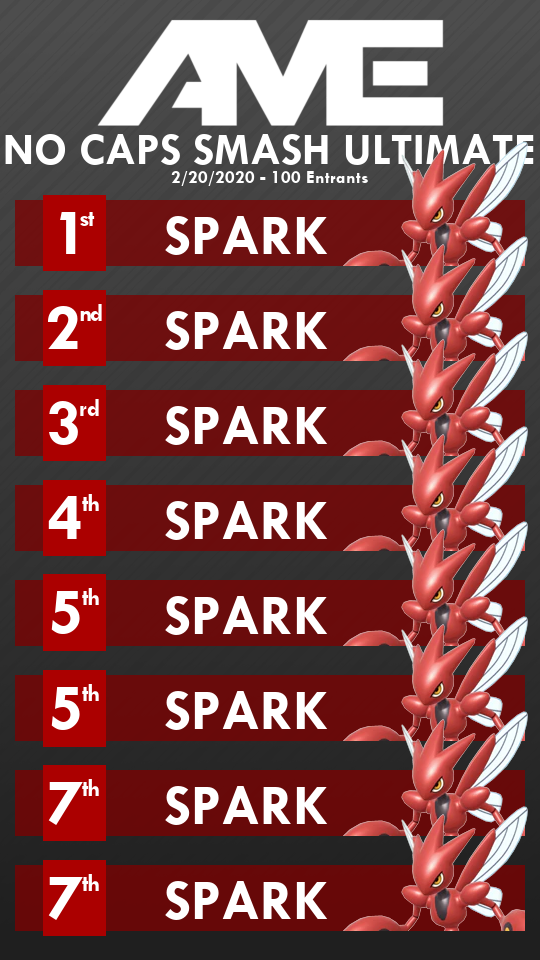
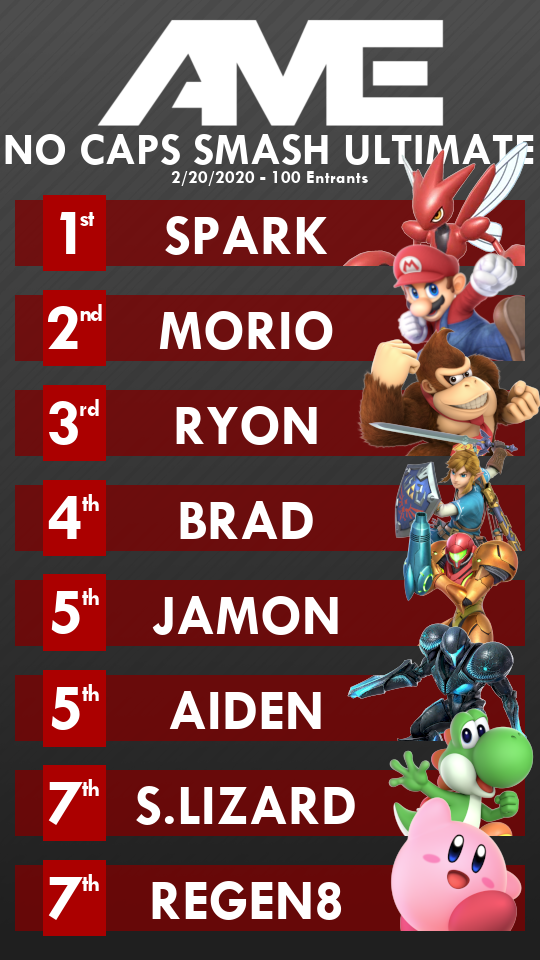
Add half character portraits

diff --git a/AutoBanner.py b/AutoBanner.py
@@ -24,9 +24,9 @@ if gs['ManualCharacters'] == True:
             players[i] = gs['ManualData'][i]['name']
             characterImg[i] = gs['ManualData'][i]['character']
 
-print(tagline)
-print(players)
-print(characterImg)
+# print(tagline)
+# print(players)
+# print(characterImg)
 
 banner = bm.bannerGen(players, characterImg, tagline)
 banner.genImg()
